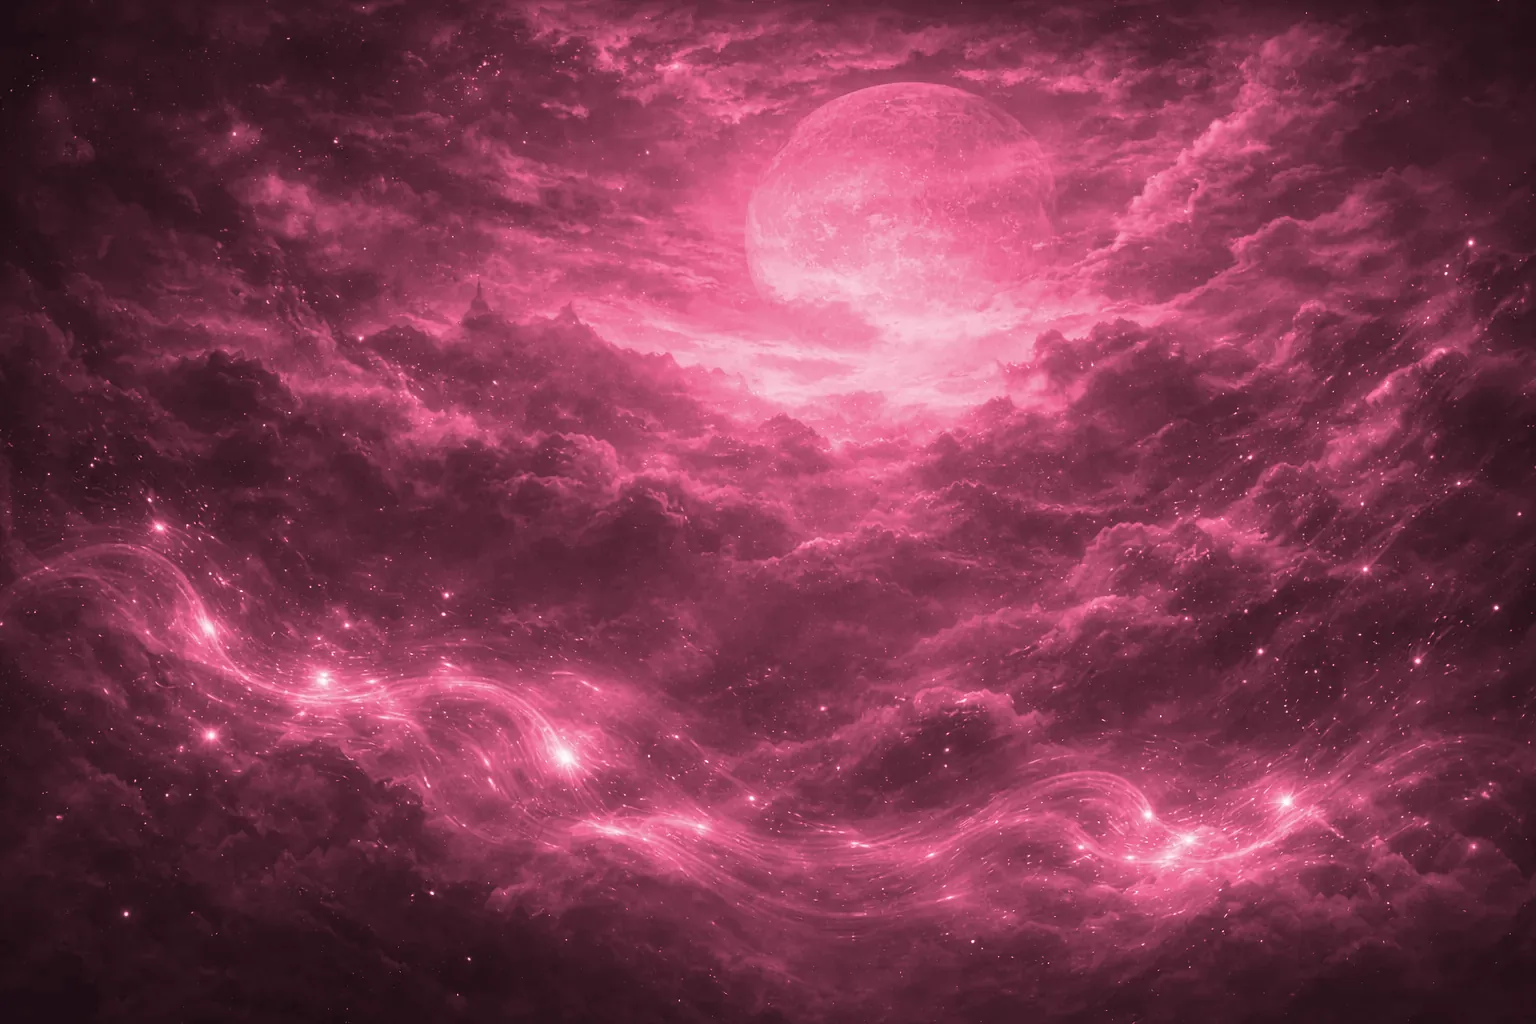
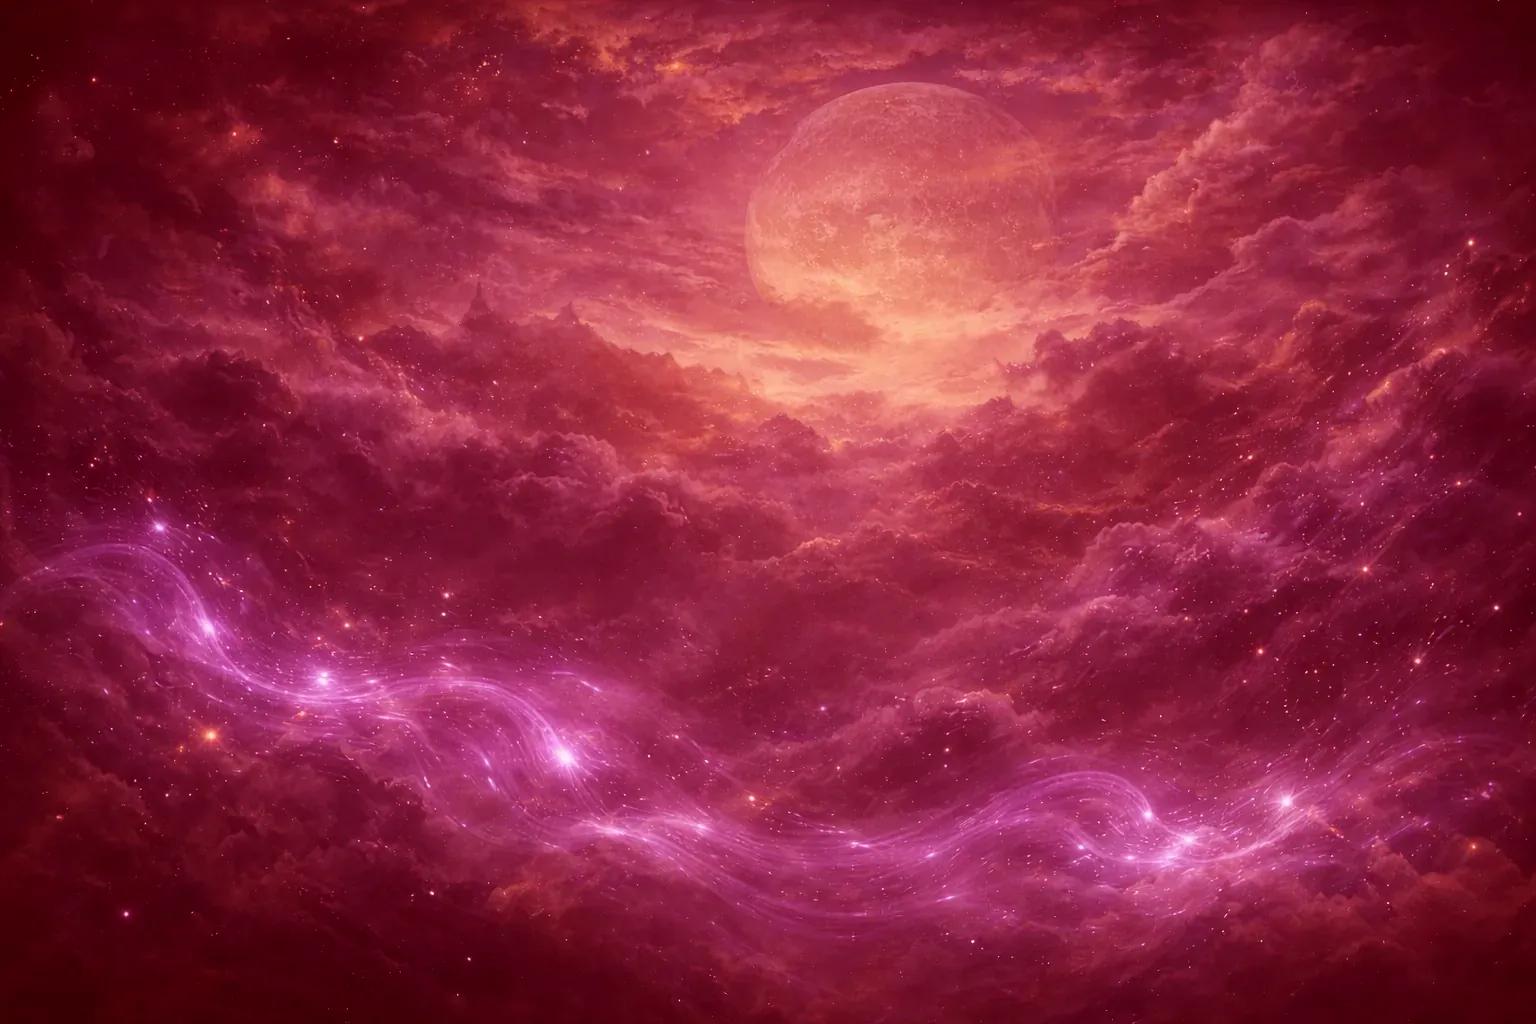
ux: reduce palette to 8 raw colors with Sunset Sky theme
Refactored color system for easier palette swapping:
- Only 8 raw OKLCH values define the entire theme
- Surfaces and borders derive from background
- Text hierarchy derives from accent hues
- Glass backgrounds derive from respective accents
- Added gradient-text-primary for text effects

New "Sunset Sky" palette replaces synthwave colors.

🤖 Generated with [Claude Code](https://claude.com/claude-code)

diff --git a/frontend/src/index.css b/frontend/src/index.css
@@ -152,53 +152,70 @@
   /* ==========================================
      Base Palette - Dark Synthwave Theme
 
+     These 8 colors are the only raw values.
+     Everything else derives from them.
+
      OKLCH format: oklch(lightness chroma hue)
      - Lightness: 0-1 (0=black, 1=white)
      - Chroma: 0-0.4 (0=gray, higher=saturated)
      - Hue: 0-360 degrees
      ========================================== */
 
-  /* Backgrounds & Surfaces */
+  /* Neutral base — Deep purple based on dark synthwave */
   --color-background: oklch(0.13 0.02 285);
-  --color-surface: oklch(0.18 0.03 285);
-  --color-surface-elevated: oklch(0.23 0.04 285);
 
-  /* Borders */
-  --color-border: oklch(0.28 0.04 285);
+  /* Accent palette — Sunset Sky */
+  --color-accent-primary:   oklch(0.55 0.05 285);  /* Twilight Violet */
+  --color-accent-secondary: oklch(0.70 0.09 20);   /* Sunset Rose */
+  --color-accent-tertiary:  oklch(0.62 0.06 255);  /* Dusk Blue */
+  --color-accent-quartary:  oklch(0.78 0.10 75);   /* Sunset Gold */
+
 
   /* Status colors */
-  --color-error: oklch(0.67 0.18 25);
-  --color-success: oklch(0.80 0.18 145);
-  --color-warning: oklch(0.82 0.16 85);
+  --color-error:  oklch(0.67 0.18 25);    /* Red */
+  --color-success: oklch(0.80 0.18 145); /* Green */
+  --color-warning: oklch(0.82 0.16 85);  /* Yellow */
 
-  /* Accent palette - Synthwave */
-  --color-accent-primary: oklch(0.59 0.24 300);
-  --color-accent-secondary: oklch(0.65 0.19 360);
-  --color-accent-tertiary: oklch(0.82 0.11 210);
-  --color-accent-quartary: oklch(0.77 0.14 55);
+
+  /* ==========================================
+     Derived Colors - Surfaces & Borders
+
+     All share background hue, vary in lightness.
+     ========================================== */
+  --color-surface: oklch(from var(--color-background) calc(l + 0.05) calc(c + 0.01) h);
+  --color-surface-elevated: oklch(from var(--color-background) calc(l + 0.10) calc(c + 0.02) h);
+  --color-border: oklch(from var(--color-background) calc(l + 0.15) calc(c + 0.02) h);
+
+  /* ==========================================
+     Derived Colors - Accent Variants
+     ========================================== */
   --color-accent: var(--color-accent-primary);
   --color-accent-hover: oklch(from var(--color-accent-primary) calc(l + 0.08) c h);
 
-  /* Text accent colors (lighter for readability) */
-  --color-text-accent-primary: oklch(0.75 0.16 300);
-  --color-text-accent-secondary: oklch(0.78 0.14 360);
-  --color-text-accent-tertiary: oklch(0.82 0.11 210);
-  --color-text-accent-quartary: oklch(0.77 0.14 55);
+  /* Text accent colors - lighter for WCAG on dark backgrounds */
+  --color-text-accent-primary: oklch(from var(--color-accent-primary) calc(l + 0.17) c h);
+  --color-text-accent-secondary: var(--color-accent-secondary); /* oklch(from var(--color-accent-secondary) calc(l + 0.13) calc(c - 0.05) h); */
+  --color-text-accent-tertiary: var(--color-accent-tertiary);  /* Already light */
+  --color-text-accent-quartary: var(--color-accent-quartary);  /* Already light */
   --color-text-accent: var(--color-text-accent-primary);
 
-  /* Status text colors */
-  --color-text-error: oklch(0.67 0.18 25);
-  --color-text-success: oklch(0.80 0.18 145);
-  --color-text-warning: oklch(0.82 0.16 85);
+  /* Status text colors - same as status (already WCAG compliant) */
+  --color-text-error: var(--color-error);
+  --color-text-success: var(--color-success);
+  --color-text-warning: var(--color-warning);
 
-  /* Text hierarchy */
-  --color-text-primary: oklch(0.96 0.01 285);
-  --color-text-secondary: oklch(0.89 0.02 285);
-  --color-text-muted: oklch(0.72 0.12 290);
+  /* ==========================================
+     Derived Colors - Text Hierarchy
+
+     All derive from accent hues for consistency.
+     ========================================== */
+  --color-text-primary: oklch(from var(--color-accent-primary) 0.96 0.01 h);
+  --color-text-secondary: oklch(from var(--color-accent-primary) 0.89 0.02 h);
+  --color-text-muted: oklch(from var(--color-accent-secondary) 0.72 0.12 h); /* Slight hue shift for purple tint */
   --color-text-heading: var(--color-text-accent-quartary);
   --color-text-highlight: oklch(from var(--color-text-accent-quartary) calc(l + 0.15) c h);
 
-  /* Status background */
+  /* Status backgrounds - darkened versions */
   --color-bg-error: oklch(from var(--color-error) calc(l / 4) c h);
   --color-bg-warning: oklch(from var(--color-warning) calc(l / 4) c h);
   --color-bg-success: oklch(from var(--color-success) calc(l / 4) c h);
@@ -278,6 +295,7 @@
   --gradient-primary: linear-gradient(135deg, var(--color-accent-primary) 0%, var(--color-accent-secondary) 100%);
   --gradient-secondary: linear-gradient(135deg, var(--color-accent-tertiary) 0%, var(--color-accent-primary) 100%);
   --gradient-tertiary: linear-gradient(135deg, oklch(from var(--color-accent-quartary) calc(l - 0.2) c h) 0%, oklch(from var(--color-accent-secondary) calc(l - 0.15) c h) 100%);
+  --gradient-text-primary: linear-gradient(135deg, var(--color-text-accent-primary) 0%, var(--color-text-accent-secondary) 100%);
   --gradient-secondary-hover: linear-gradient(135deg, oklch(from var(--color-accent-tertiary) calc(l + 0.08) c h) 0%, var(--color-accent-hover) 100%);
   --gradient-surface: linear-gradient(180deg, var(--color-surface) 0%, var(--color-background) 100%);
   --gradient-error: linear-gradient(135deg, var(--color-error) 0%, oklch(from var(--color-error) calc(l - 0.14) c h) 100%);
@@ -288,12 +306,12 @@
      Glass backgrounds use accent hues at low lightness/chroma.
      ========================================== */
   --glass-bg: var(--color-surface-a90);
-  --glass-bg-primary: oklch(from var(--color-accent-secondary) 0.22 0.05 h / 0.85);
-  --glass-bg-primary-button: oklch(from var(--color-accent-secondary) 0.25 0.05 h / 0.85);
-  --glass-bg-primary-hover: oklch(from var(--color-accent-secondary) 0.32 0.06 h / 0.85);
+  --glass-bg-primary: oklch(from var(--color-accent-primary) 0.22 0.04 h / 0.85);
+  --glass-bg-primary-button: oklch(from var(--color-accent-primary) 0.25 0.05 h / 0.85);
+  --glass-bg-primary-hover: oklch(from var(--color-accent-primary) 0.32 0.06 h / 0.85);
+  --glass-bg-secondary: oklch(from var(--color-accent-secondary) 0.22 0.04 h / 0.85);
   --glass-bg-tertiary: oklch(from var(--color-accent-tertiary) 0.22 0.04 h / 0.85);
   --glass-bg-quartary: oklch(from var(--color-accent-quartary) 0.22 0.04 h / 0.85);
-  --glass-bg-secondary: var(--glass-bg-primary);
   --glass-border: var(--color-accent-primary-a25);
   --glass-border-hover: oklch(from var(--color-accent-primary) l c h / 0.5);
   --glass-border-accent: oklch(from var(--color-accent-tertiary) l c h / 0.5);

diff --git a/frontend/src/components/ModeToggle.css b/frontend/src/components/ModeToggle.css
@@ -31,7 +31,7 @@
   border: none;
   border-radius: var(--radius-lg);
   background-color: transparent;
-  color: var(--color-text-secondary);
+  color: var(--color-text-accent-quartary);
   font-size: var(--text-sm);
   font-weight: var(--font-weight-medium);
   cursor: pointer;
@@ -41,7 +41,7 @@
 }
 
 .mode-toggle__segment:hover:not(:disabled):not(.mode-toggle__segment--selected) {
-  color: var(--color-text);
+  color: var(--color-text-secondary);
 }
 
 .mode-toggle__segment:active:not(:disabled) {
@@ -50,7 +50,7 @@
 
 .mode-toggle__segment--selected {
   background: var(--gradient-tertiary);
-  color: var(--color-text-accent-tertiary);
+  color: var(--color-text-primary);
   font-weight: var(--font-weight-bold);
   box-shadow: var(--glow-primary);
   transition: all 0.3s var(--ease-bounce);

diff --git a/frontend/src/components/MessageBubble.css b/frontend/src/components/MessageBubble.css
@@ -26,6 +26,7 @@
   padding: var(--spacing-sm) var(--spacing-md);
   border-radius: var(--radius-lg);
   max-width: 100%;
+  min-height: 120px;
 }
 
 .message-bubble--user .message-bubble__content {
@@ -41,7 +42,7 @@
 }
 
 .message-bubble--assistant .message-bubble__content {
-  background: var(--glass-bg);
+  background: var(--glass-bg-primary);
   color: var(--color-text);
   border: 17px solid var(--glass-border);
   border-bottom-left-radius: var(--radius-sm);

diff --git a/frontend/src/App.css b/frontend/src/App.css
@@ -89,7 +89,7 @@
   font-weight: var(--font-weight-normal);
   margin: 0;
   white-space: nowrap;
-  background: var(--gradient-primary);
+  background: var(--gradient-text-primary);
   -webkit-background-clip: text;
   -webkit-text-fill-color: transparent;
   background-clip: text;
